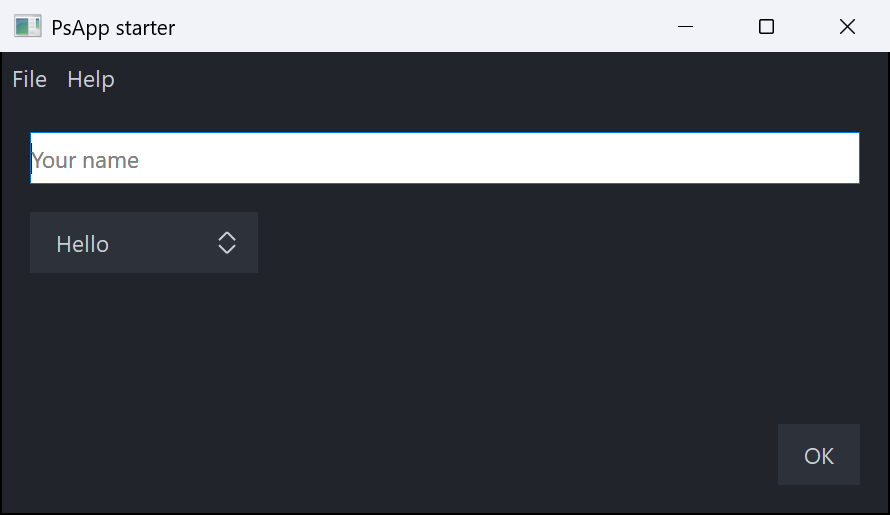
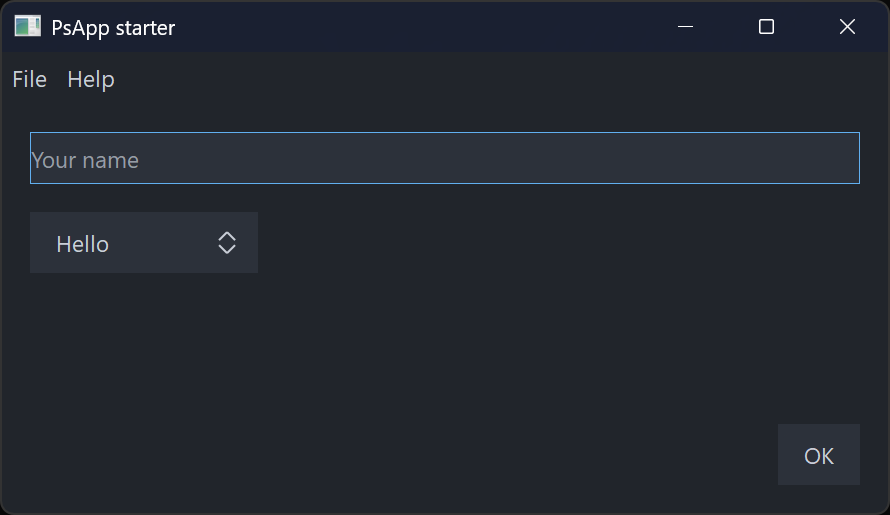
PsApp page: mend the PsApplication table; themed starter screenshot
The RunOnUI/IsUIThread/SetTimer/KillTimer and SetTheme/SetThemeMode rows sat after blank
lines, so they rendered as text outside the table; they are rows of it again. Init's row
says it applies the theme, the import note names PsTheme among the re-exports, and
PsApp.png is retaken from the current starter (dark caption, themed text box) -- the old
one predated the theme.

Changed region(s): [[0.0, 0.0, 1.0, 0.1243], [0.0303, 0.2485, 0.9708, 0.3728], [0.0, 0.9942, 1.0, 1.0]]

diff --git a/wiki/PsApp.md b/wiki/PsApp.md
@@ -30,8 +30,9 @@ combobox, a button and a modal About box.
 
 ![The PsApp starter](PsApp.png)
 
-**Importing.** `PsApp` re-exports `sys/win`, `sys/win/gui`, `PsBufferPaint` and `PsRegistry`, so
-`using gui` and `using PsBufferPaint` work without importing those modules yourself. You still
+**Importing.** `PsApp` re-exports `sys/win`, `sys/win/gui`, `PsBufferPaint`, `PsRegistry` and
+`PsTheme`, so `using gui`, `using PsBufferPaint` and `using PsTheme` work without importing those
+modules yourself. You still
 import each control you use.
 
 ## PsApplication
@@ -40,19 +41,17 @@ There is one application per process, and its state is the module's.
 
 | Member | What it does |
 |---|---|
-| `Init( )` / `Init( byref opts as PSAPP_OPTIONS )` | Starts COM, sets DPI awareness, starts GDI+ and chooses the glyph face. Call it once, before any window exists. Returns FALSE if called a second time or if COM fails. |
+| `Init( )` / `Init( byref opts as PSAPP_OPTIONS )` | Starts COM, sets DPI awareness, starts GDI+, chooses the glyph face and applies the theme `ThemeMode` asks for. Call it once, before any window exists. Returns FALSE if called a second time or if COM fails. |
 | `NewForm( title, cx, cy [, dwStyle, dwExStyle, hParent] ) as PsForm ptr` | Creates a form, hidden and centred on `hParent` or the screen. `cx`/`cy` are in DIPs. `hParent` becomes the owner of a top-level form. |
 | `Run( mainForm ) as long` | Shows the main form, pumps messages until it is destroyed (or `Quit`), destroys any forms still open and undoes `Init`. Returns the exit code. |
 | `Quit( exitCode = 0 )` | `PostQuitMessage`: `Run` returns `exitCode`. |
 | `GlyphFace( ) as ustring` | The glyph face `Init` chose (see below). |
 | `Options( ) as PSAPP_OPTIONS` | The options `Init` was given. |
 | `AddMessageFilter( p )` / `RemoveMessageFilter( p )` | Your own pre-translate step: `function( byval pMsg as MSG ptr ) as boolean`. It runs after the controls' filters. Returning TRUE consumes the message. |
-
 | `RunOnUI( p [, payload] ) as boolean` | **Any thread.** Queues `sub( byval payload as any ptr )` to run on the UI thread, in call order. Returns FALSE when no application is running. |
 | `IsUIThread( ) as boolean` | TRUE on the thread that called `Init` |
 | `SetTimer( ms, p [, payload] ) as long` | A timer that needs no form: `sub( byval id as long, byval payload as any ptr )`. Returns the id, never 0 (0 means it failed). UI thread only. |
 | `KillTimer( id )` | Stops it; safe to call from the timer's own proc |
-
 | `SetTheme( t )` / `Theme( )` | Sets the current [theme](PsTheme) and returns it. Every control whose colours are not pinned is restyled, every form gets the theme's background and title bar, and `OnThemeChanged` fires. |
 | `SetThemeMode( mode )` / `ThemeMode( )` | `PSAPP_THEME_SYSTEM` follows the Windows light/dark setting live. `LIGHT` or `DARK` fixes the theme. |
 
